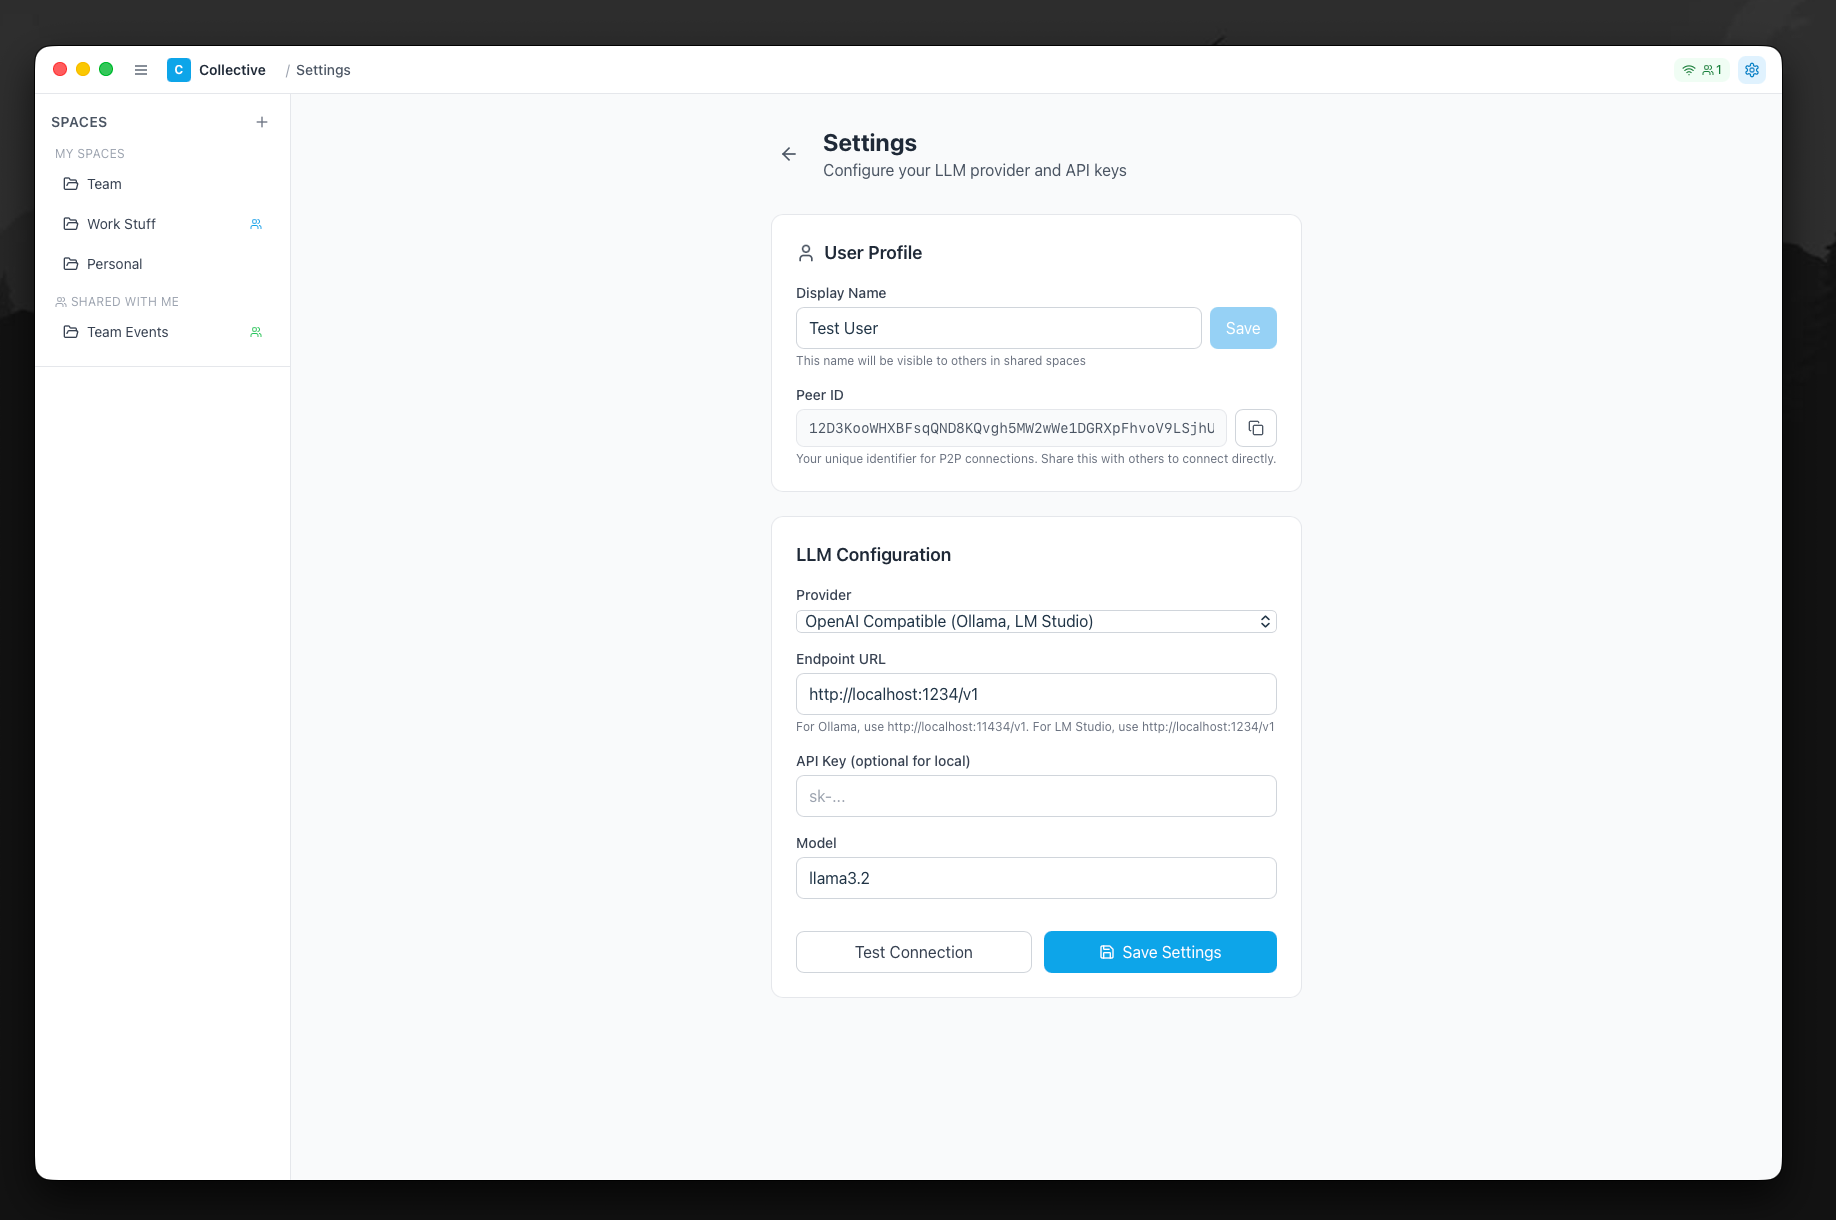
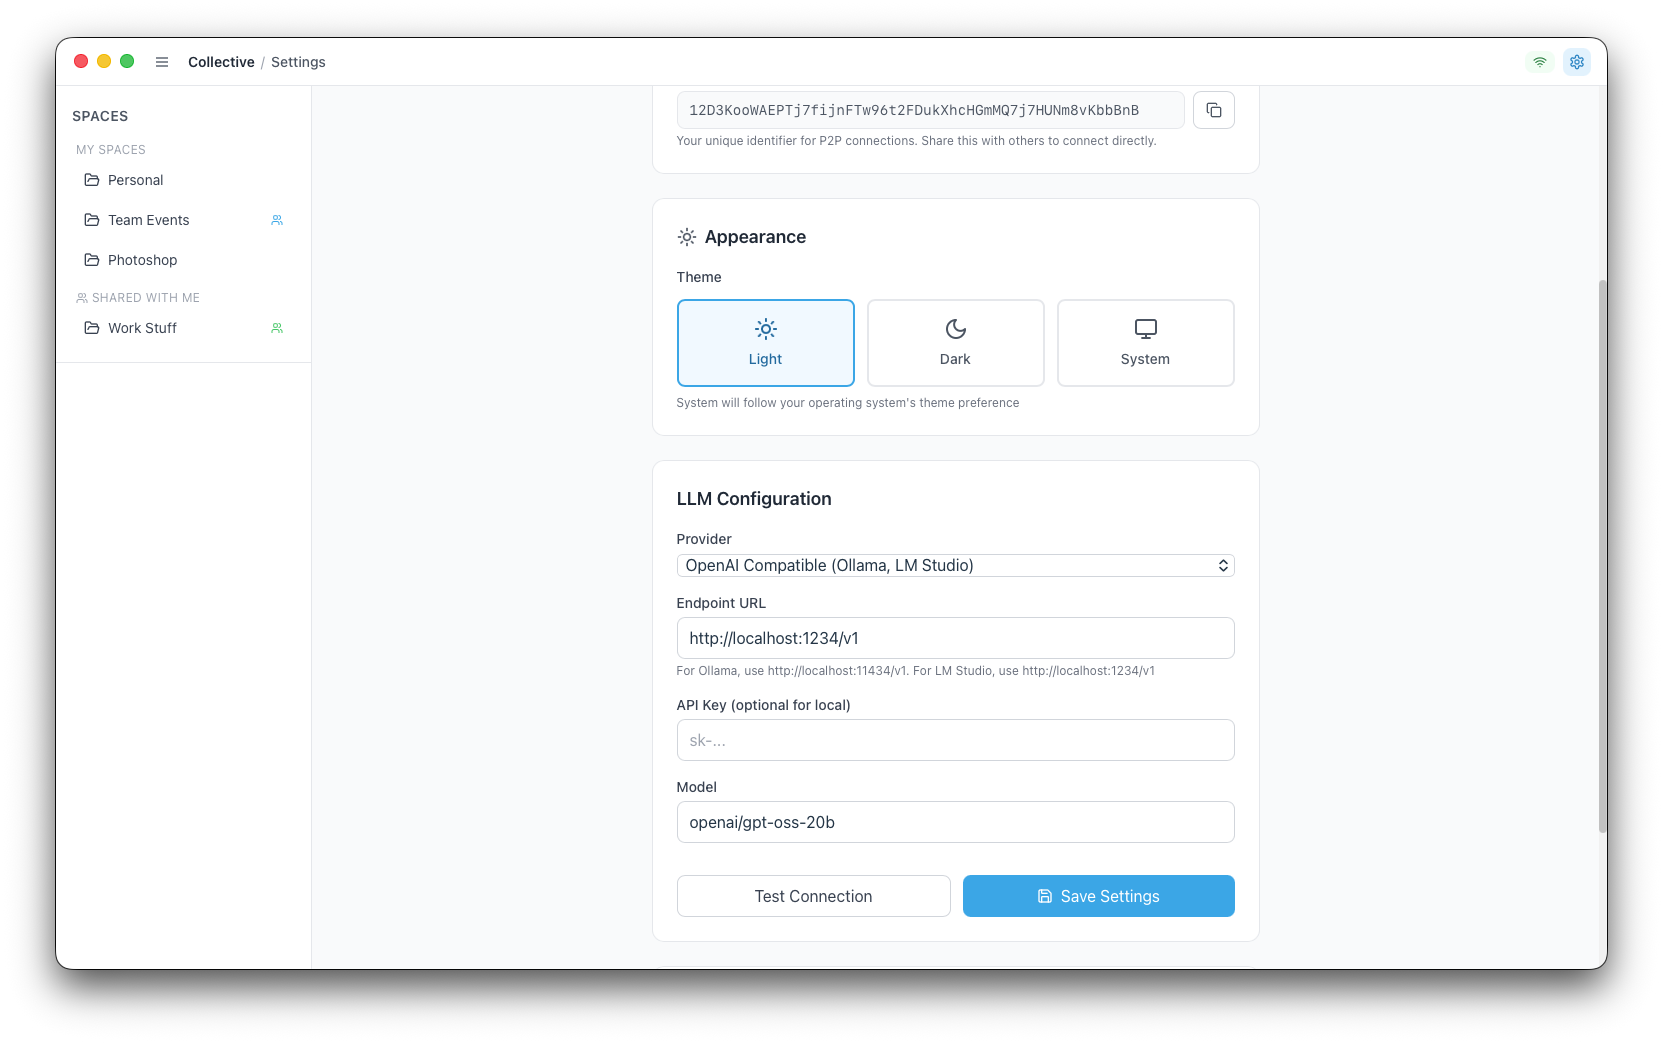
Update screenshots and add dark mode section
- Update all app screenshots with latest versions
- Add dark mode showcase as last feature

diff --git a/index.html b/index.html
@@ -645,6 +645,17 @@
                     <img src="images/Spaces can be shared.png" alt="AI explaining code and scripts">
                 </div>
             </div>
+
+            <div class="showcase-item">
+                <div class="showcase-content">
+                    <span class="showcase-label">Dark Mode</span>
+                    <h2>Easy on the eyes</h2>
+                    <p>Switch to dark mode for a comfortable viewing experience during late-night sessions. The sleek dark interface reduces eye strain and looks great on any display.</p>
+                </div>
+                <div class="showcase-image">
+                    <img src="images/dark mode.png" alt="Collective app in dark mode">
+                </div>
+            </div>
         </div>
     </section>
 
